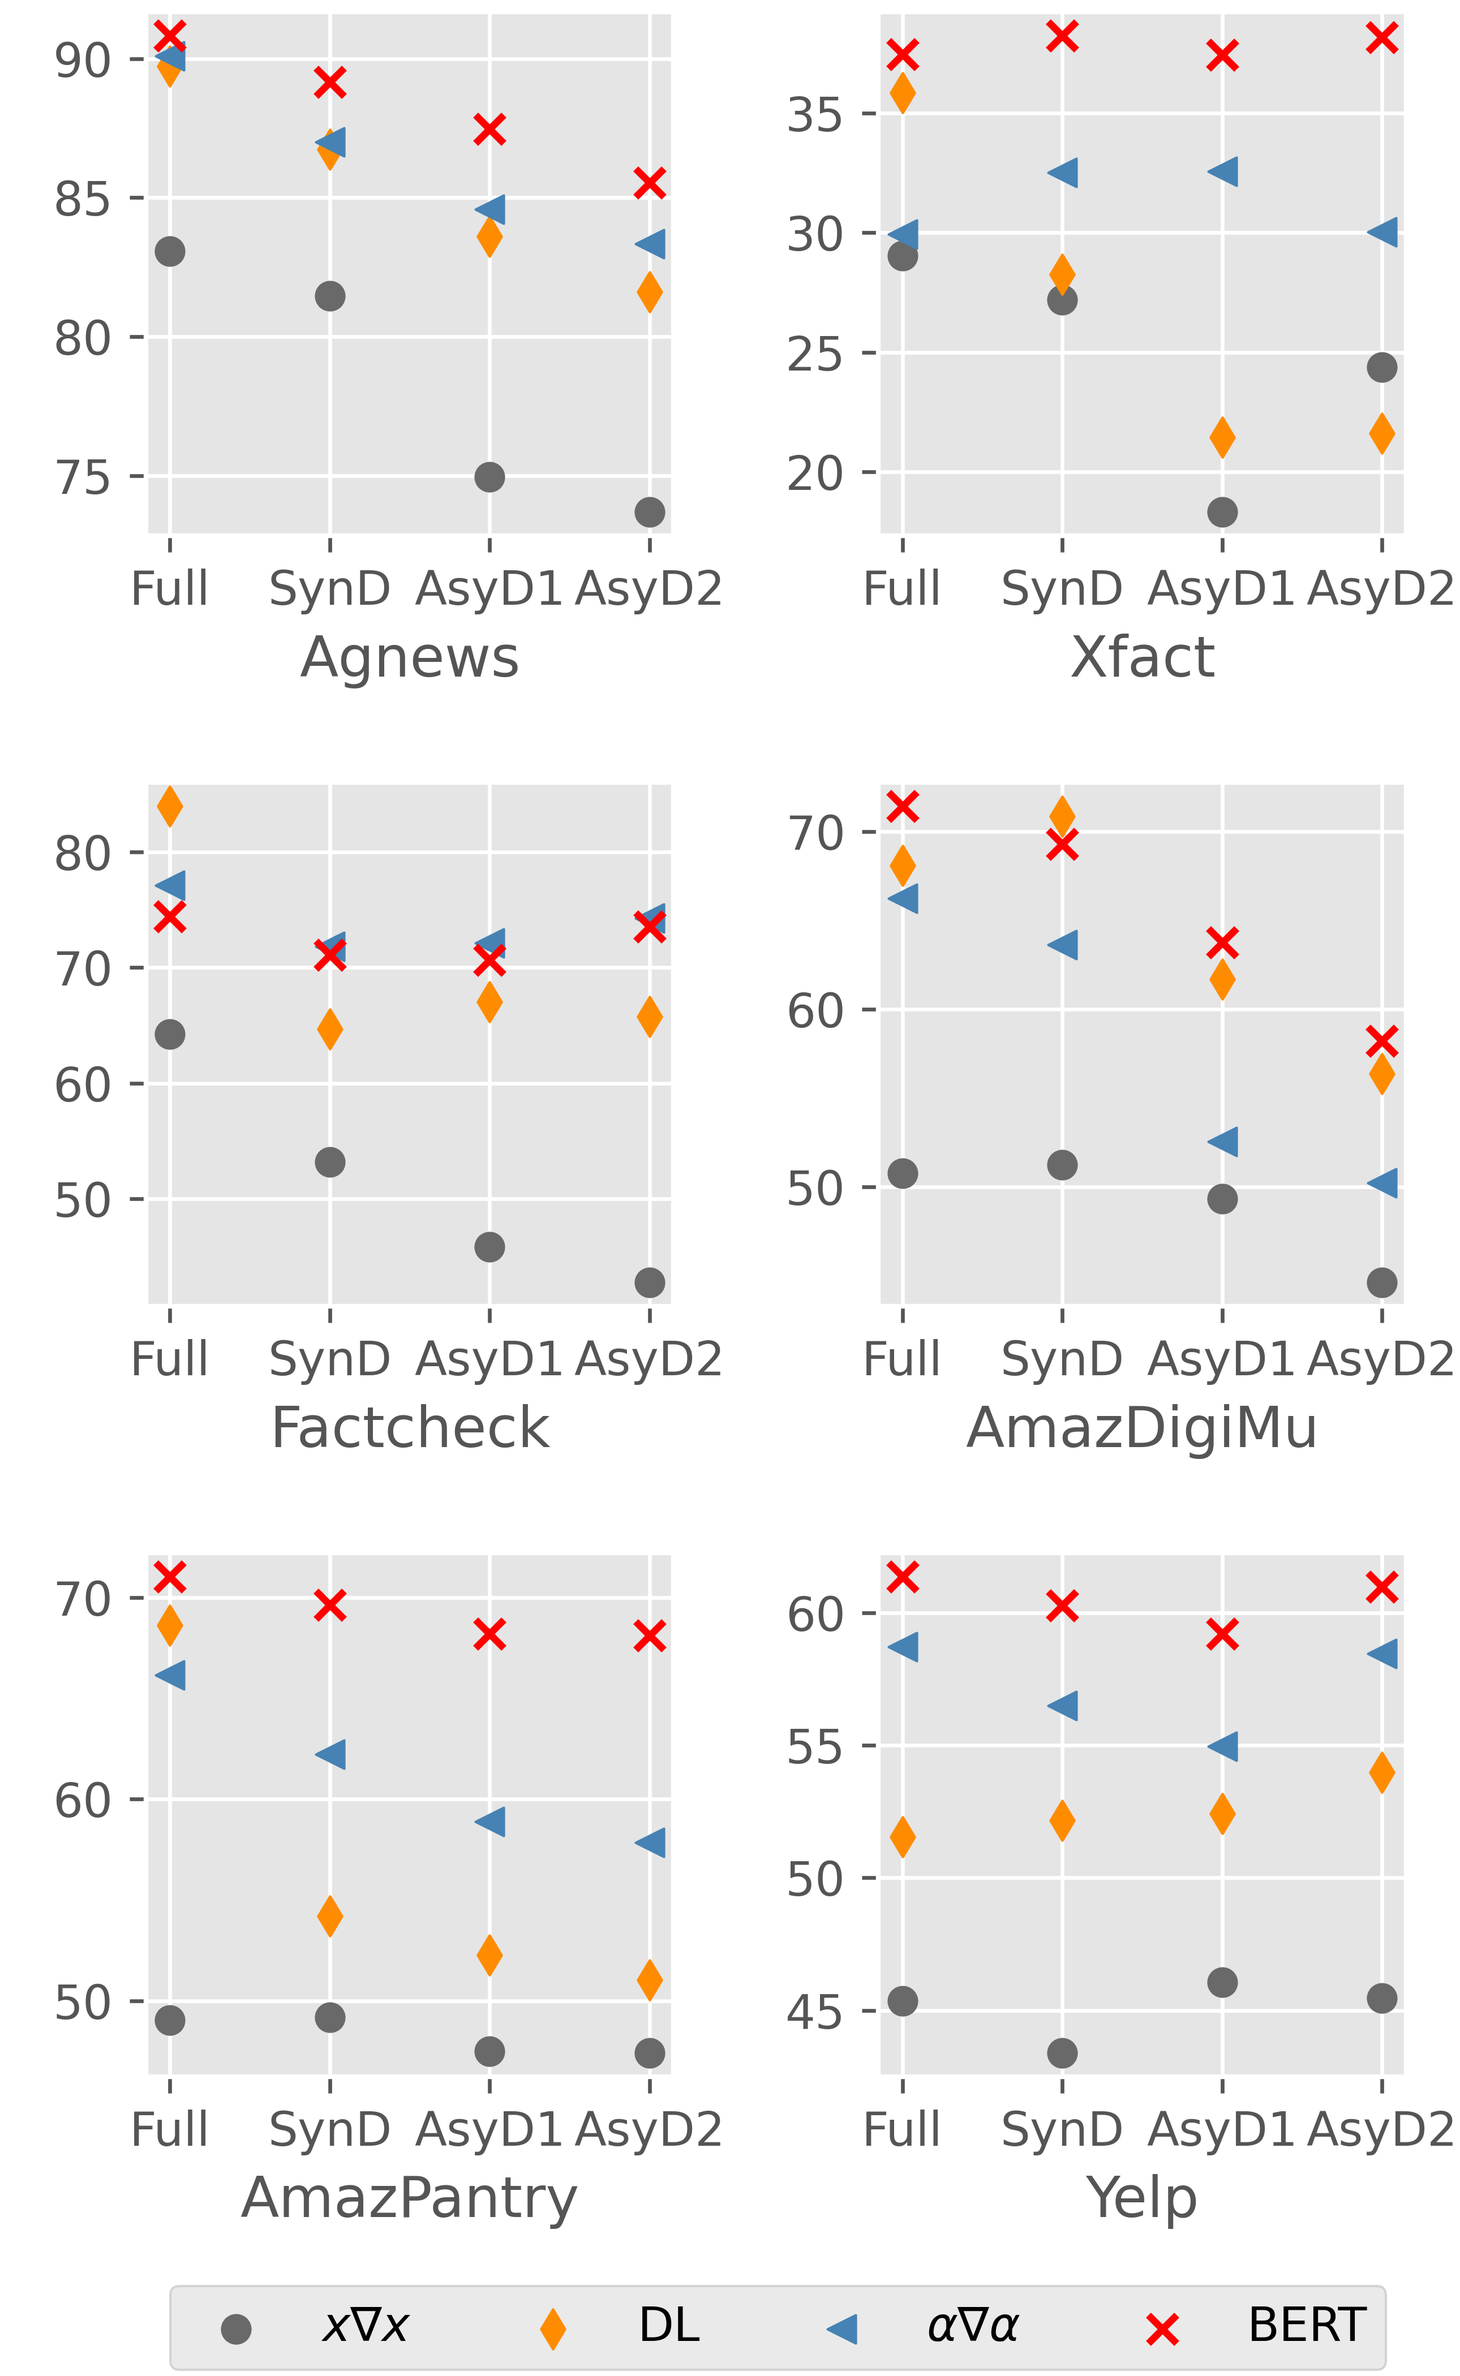
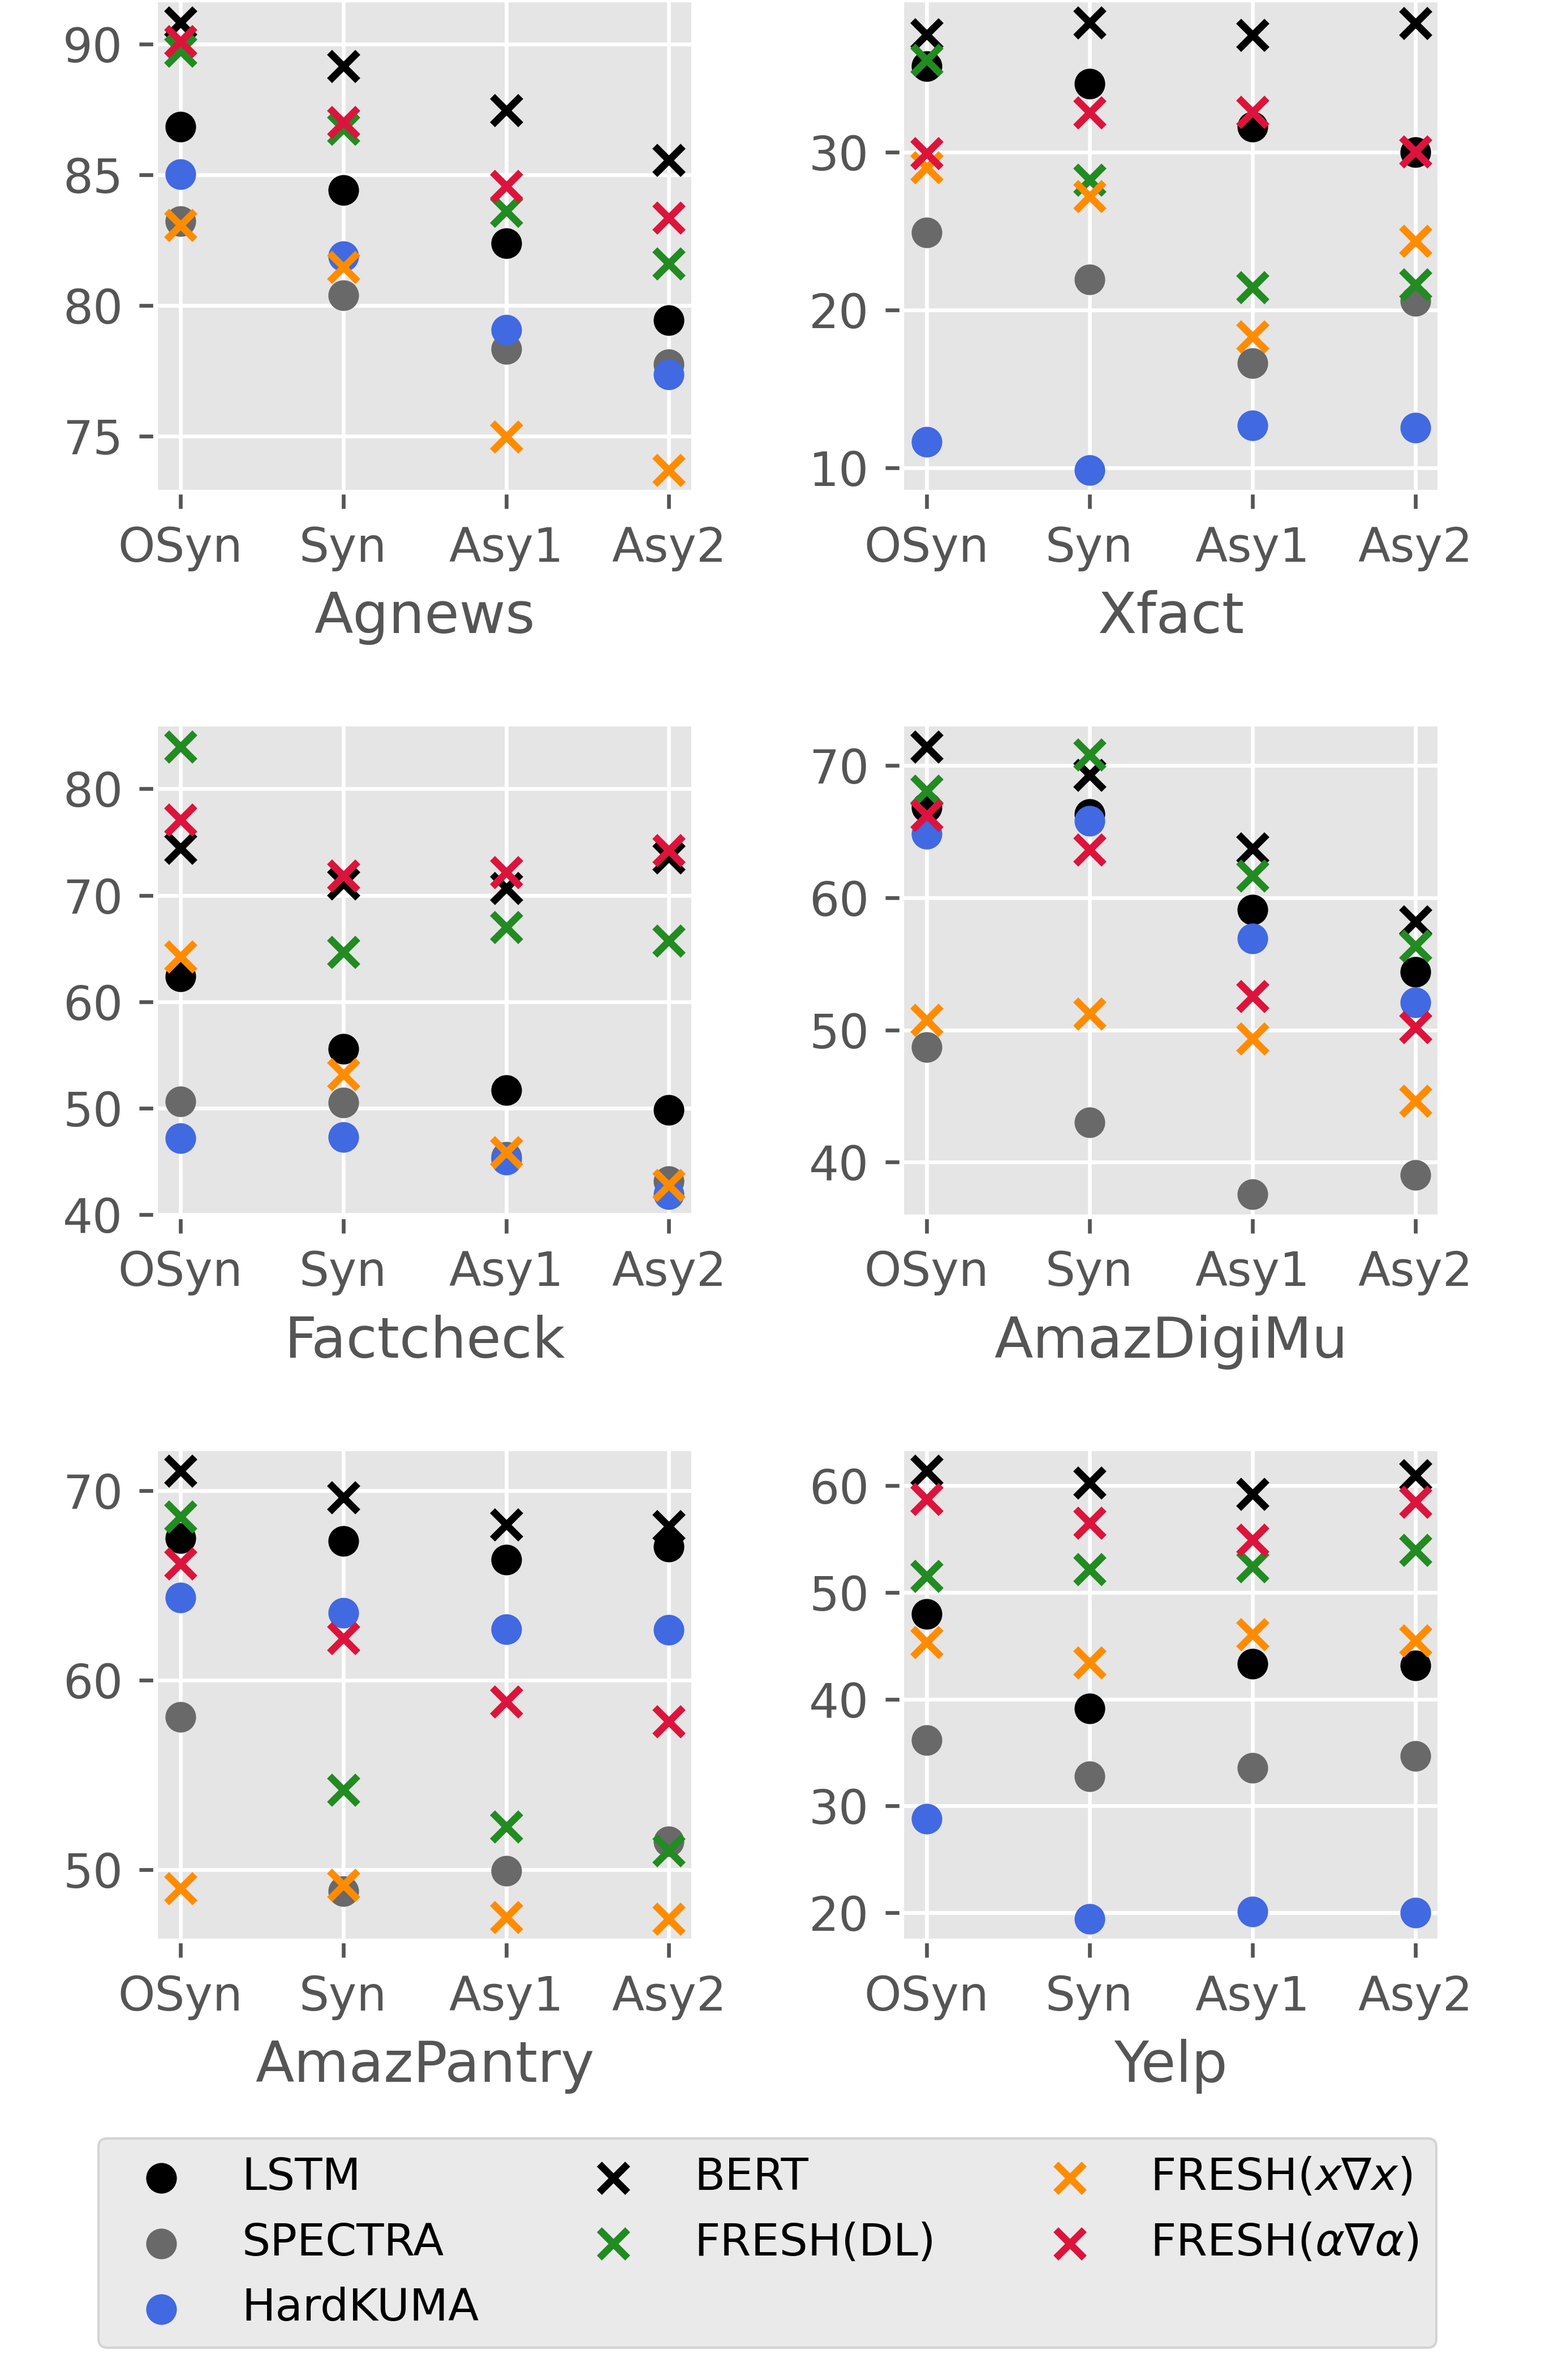
m

diff --git a/saved_everything/all_tasks_all_fresh_finalPLOT_overleaf copy.py b/saved_everything/all_tasks_all_fresh_finalPLOT_overleaf copy.py
@@ -67,36 +67,42 @@ for i, name in enumerate(task_list):
 
     if i < 2:
         axs[0, i].scatter(df['Domain'], df['LSTM'], label='LSTM', color='black')
-        axs[0, i].scatter(df['Domain'], df['SPECTRA'], label='SPECTRA', color='dimgrey')
+        axs[0, i].scatter(df['Domain'], df['SPECTRA'], label='SPECTRA', color='dimgray')
         axs[0, i].scatter(df['Domain'], df['KUMA'], label='HardKUMA', color='royalblue')
-        axs[0, i].scatter(df['Domain'], df['gradients'], label=r'$x\nabla x $', marker='x', color='crimson') 
-        axs[0, i].scatter(df['Domain'], df['BERT'], label='BERT', color='brown', marker='x')
-        axs[0, i].scatter(df['Domain'], df['deeplift'], label='DL', color='gold', marker='x')
-        axs[0, i].scatter(df['Domain'], df['scaled attention'], color='darkorange', marker='x', label=r'$\alpha\nabla\alpha$')
+        
+        axs[0, i].scatter(df['Domain'], df['BERT'], label='BERT', marker='x', color='black')
+        axs[0, i].scatter(df['Domain'], df['deeplift'], label='DL', color='forestgreen', marker='x')
+        
+        axs[0, i].scatter(df['Domain'], df['gradients'], label=r'$x\nabla x $', marker='x', color='darkorange') 
+        axs[0, i].scatter(df['Domain'], df['scaled attention'], color='crimson', marker='x', label=r'$\alpha\nabla\alpha$') #f0e442
         axs[0, i].set_xlabel(SUB_NAME,fontsize=xlabel_size)
 
 
     elif 4 > i > 1:
         axs[1, i-2].scatter(df['Domain'], df['LSTM'], label='LSTM', color='black')
-        axs[1, i-2].scatter(df['Domain'], df['SPECTRA'], label='SPECTRA', color='dimgrey')
+        axs[1, i-2].scatter(df['Domain'], df['SPECTRA'], label='SPECTRA', color='dimgray')
         axs[1, i-2].scatter(df['Domain'], df['KUMA'], label='HardKUMA', color='royalblue')
-        axs[1, i-2].scatter(df['Domain'], df['gradients'], label=r'$x\nabla x $', marker='x', color='crimson') 
-        axs[1, i-2].scatter(df['Domain'], df['BERT'], label='BERT', color='brown', marker='x')
-        axs[1, i-2].scatter(df['Domain'], df['deeplift'], label='DL', color='gold', marker='x')
-        axs[1, i-2].scatter(df['Domain'], df['scaled attention'], color='darkorange', marker='x', label=r'$\alpha\nabla\alpha$')
+
+        axs[1, i-2].scatter(df['Domain'], df['BERT'], label='BERT', color='black', marker='x')
+        axs[1, i-2].scatter(df['Domain'], df['deeplift'], label='DL', color='forestgreen', marker='x')
+
+        axs[1, i-2].scatter(df['Domain'], df['gradients'], label=r'$x\nabla x $', marker='x', color='darkorange') 
+        axs[1, i-2].scatter(df['Domain'], df['scaled attention'], color='crimson', marker='x', label=r'$\alpha\nabla\alpha$')
 
         axs[1, i-2].set_xlabel(SUB_NAME,fontsize=xlabel_size)
 
 
     else:
         axs[2, i-4].scatter(df['Domain'], df['LSTM'], label='LSTM', color='black')
-        axs[2, i-4].scatter(df['Domain'], df['SPECTRA'], label='SPECTRA', color='dimgrey')
+        axs[2, i-4].scatter(df['Domain'], df['SPECTRA'], label='SPECTRA', color='dimgray')
         axs[2, i-4].scatter(df['Domain'], df['KUMA'], label='HardKUMA', color='royalblue')
-        
-        axs[2, i-4].scatter(df['Domain'], df['gradients'], label=r'FRESH($x\nabla x $)', marker='x', color='crimson') 
-        axs[2, i-4].scatter(df['Domain'], df['deeplift'], label='FRESH(DL)', color='gold', marker='x')
-        axs[2, i-4].scatter(df['Domain'], df['scaled attention'], color='darkorange', marker='x', label=r'FRESH($\alpha\nabla\alpha$)')
-        axs[2, i-4].scatter(df['Domain'], df['BERT'], label='BERT', color='brown', marker='x')
+
+        axs[2, i-4].scatter(df['Domain'], df['BERT'], label='BERT', color='black', marker='x')
+        axs[2, i-4].scatter(df['Domain'], df['deeplift'], label='FRESH(DL)', color='forestgreen', marker='x')
+
+        axs[2, i-4].scatter(df['Domain'], df['gradients'], label=r'FRESH($x\nabla x $)', marker='x', color='darkorange') 
+        axs[2, i-4].scatter(df['Domain'], df['scaled attention'], color='crimson', marker='x', label=r'FRESH($\alpha\nabla\alpha$)')
+
         axs[2, i-4].set_xlabel(SUB_NAME,fontsize=xlabel_size)
     
 #fig.suptitle('Predictive Performance Comparison of Selective Rationalizations', fontsize=12)

diff --git a/save_everything_part2.py b/save_everything_part2.py
@@ -229,7 +229,7 @@ num_iterations = 2000 # for testing, original use 2000? need to check the paper
 VOCAB_SIZE = 20000
 model_dir = 'similarity_models/full_text/'+ str(args.dataset) + '/vocab/' + str(VOCAB_SIZE)
 os.makedirs(model_dir, exist_ok=True)
-
+'''
 InD_train_list = pd.read_json('./datasets/'+str(args.dataset)+'/data/train.json')['text']
 InD_test_list = pd.read_json('./datasets/'+str(args.dataset)+'/data/test.json')['text']
 OOD1_list= pd.read_json('./datasets/'+str(args.dataset)+'_ood1/data/test.json')['text']
@@ -278,7 +278,7 @@ os.makedirs(model_dir, exist_ok=True)
 thresh_list = []
 for threshold in ['topk']: #'topk', , 'contigious'
     attributes_list = []
-    for attribute_name in ['scaled attention','attention', 'lime', 'deeplift', 'gradients','ig','gradientshap','deepliftshap']:
+    for attribute_name in ['scaled attention']: #,'attention', 'lime', 'deeplift', 'gradients','ig','gradientshap','deepliftshap'
 
         # InD_path_train = './extracted_rationales/'+str(args.dataset)+'/data/'+str(threshold)+'/'+str(attribute_name)+'-train.json'
         InD_path_train = os.path.join('extracted_rationales',str(args.dataset),'data',str(threshold),str(attribute_name)+'-train.json')
@@ -317,23 +317,24 @@ for threshold in ['topk']: #'topk', , 'contigious'
         OOD1_similarity = pre_post_process(OOD1_reps, 'OOD1')
         OOD2_similarity = pre_post_process(OOD2_reps, 'OOD2')
         results = pd.concat([baseline_similarity,OOD1_similarity,OOD2_similarity],ignore_index=True)
+        results.to_csv(datasets_dir + '/rationale_similarity_vocab' + str(vocab.size) + ' .csv')
 
-        results['attribute_name'] = str(attribute_name)
+        #results['attribute_name'] = str(attribute_name)
 
-        print('done for ', str(attribute_name), str(threshold) )
+        #print('done for ', str(attribute_name), str(threshold) )
 
-        attributes_list.append(results)
-    all_attributes_df = pd.concat([attributes_list[0], attributes_list[1], attributes_list[2], attributes_list[3], attributes_list[4]], ignore_index=False)
-    all_attributes_df['threshold'] = str(threshold)
+        #attributes_list.append(results)
+    #all_attributes_df = pd.concat([attributes_list[0], attributes_list[1], attributes_list[2], attributes_list[3], attributes_list[4]], ignore_index=False)
+    #all_attributes_df['threshold'] = str(threshold)
 
-    thresh_list.append(all_attributes_df)
+#     thresh_list.append(all_attributes_df)
 
-#results = pd.concat([thresh_list[0], thresh_list[1]], ignore_index=True)
-results = thresh_list[0]
-results.to_csv(datasets_dir + '/rationale_similarity_vocab' + str(vocab.size) + ' .csv')
-print('saved as:')
-print(datasets_dir + '/rationale_similarity_vocab' + str(vocab.size) + ' .csv')
-'''
+# #results = pd.concat([thresh_list[0], thresh_list[1]], ignore_index=True)
+# results = thresh_list[0]
+# results.to_csv(datasets_dir + '/rationale_similarity_vocab' + str(vocab.size) + ' .csv')
+# print('saved as:')
+# print(datasets_dir + '/rationale_similarity_vocab' + str(vocab.size) + ' .csv')
+
 
 
 
